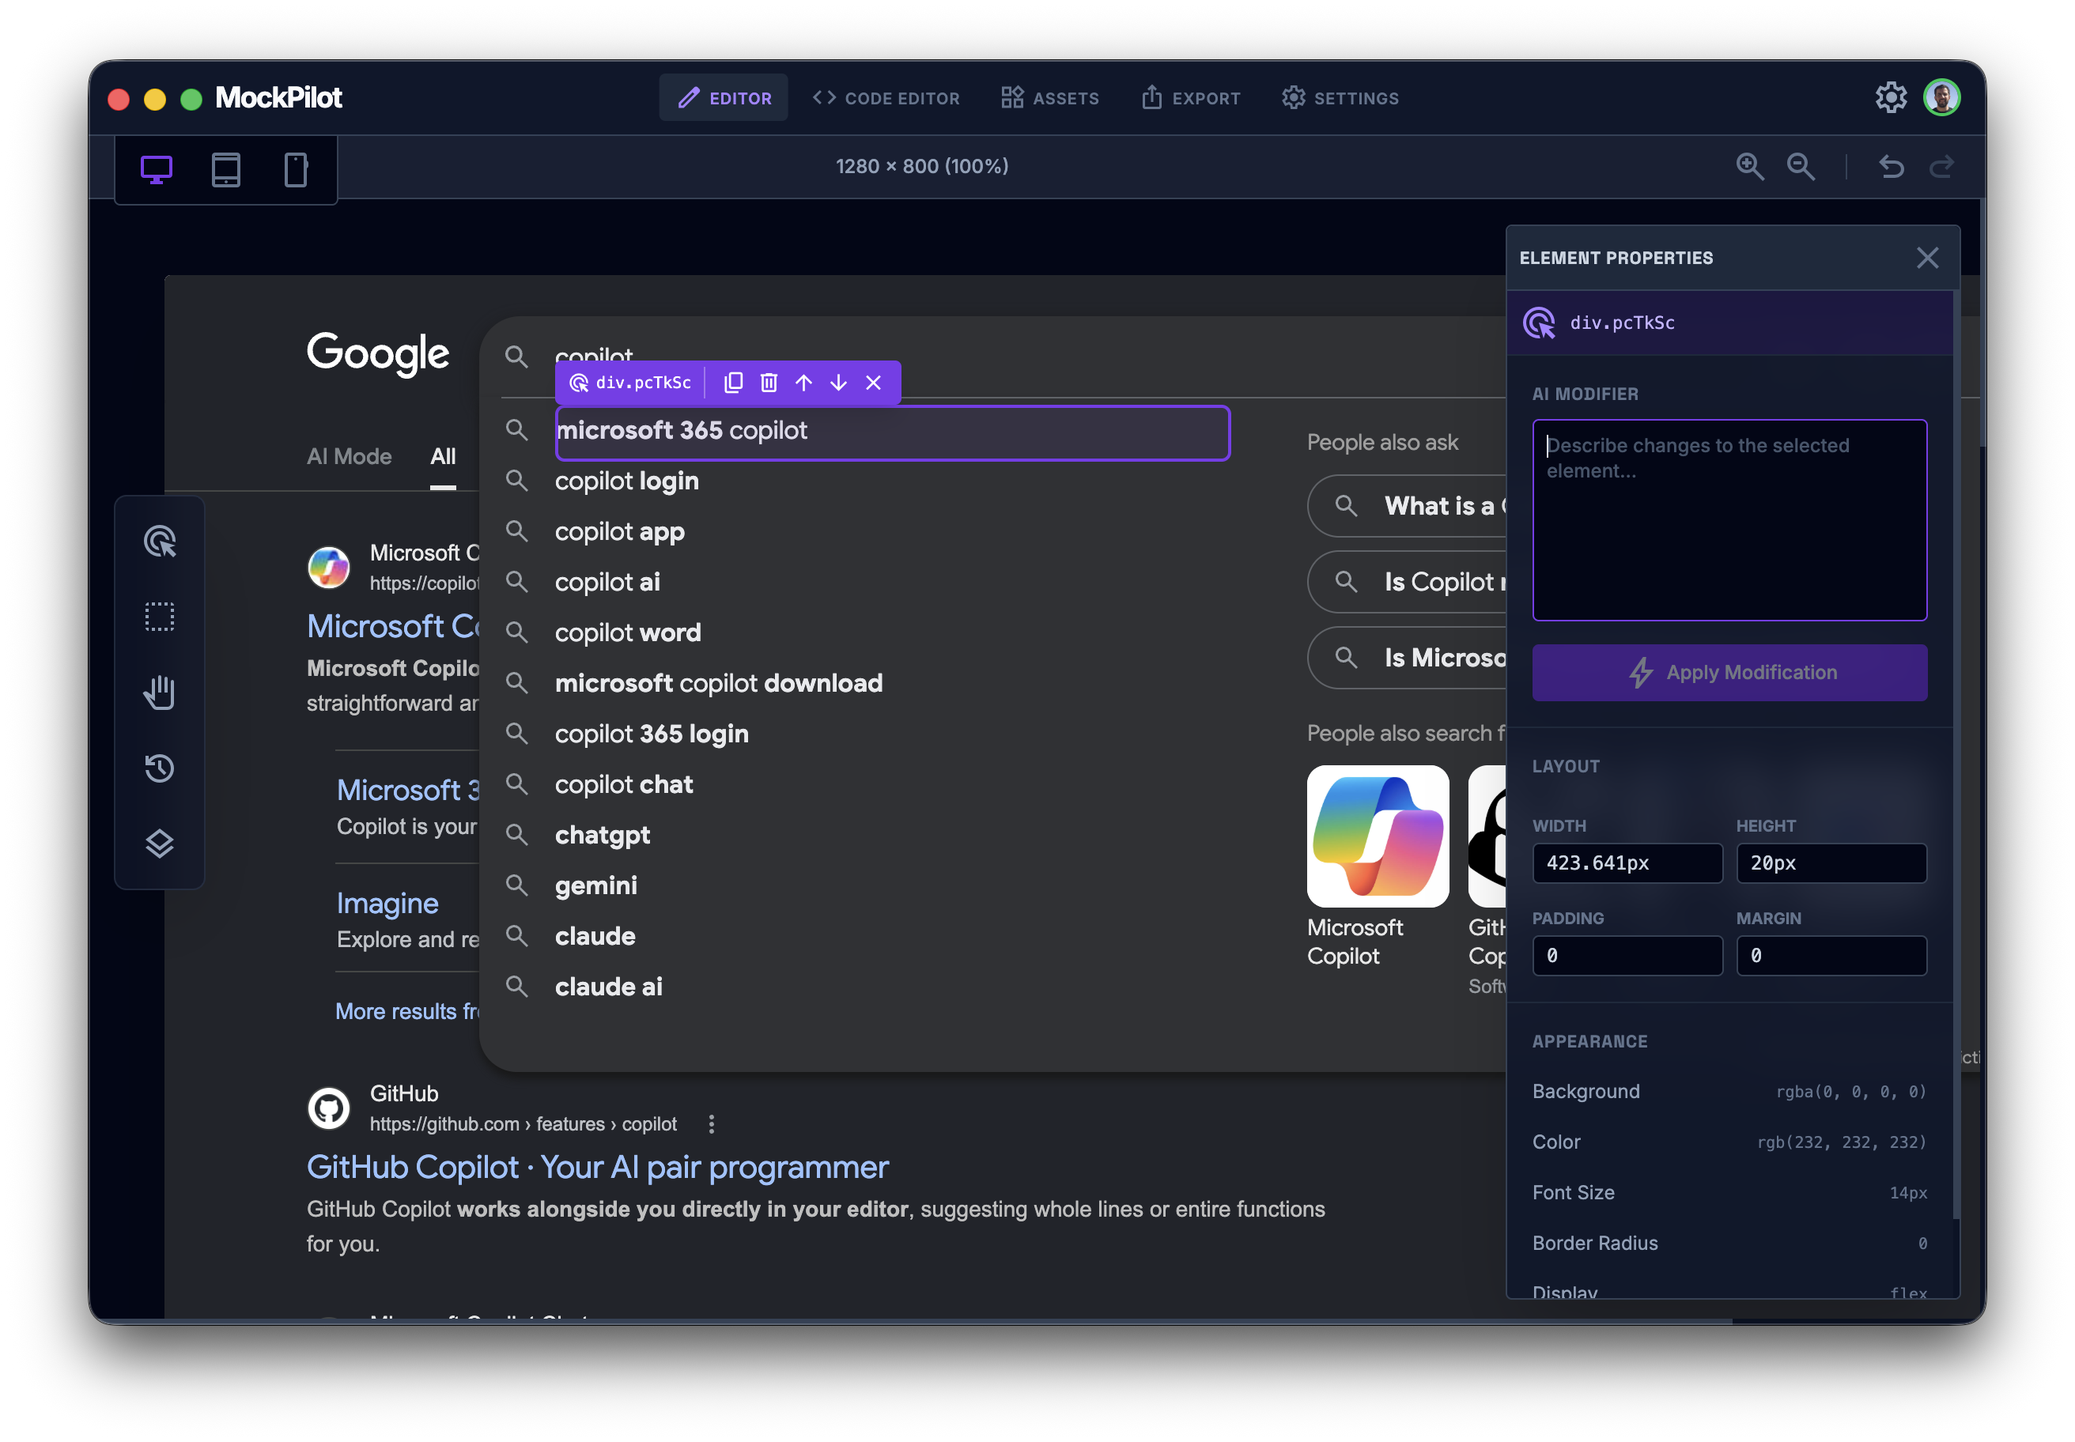
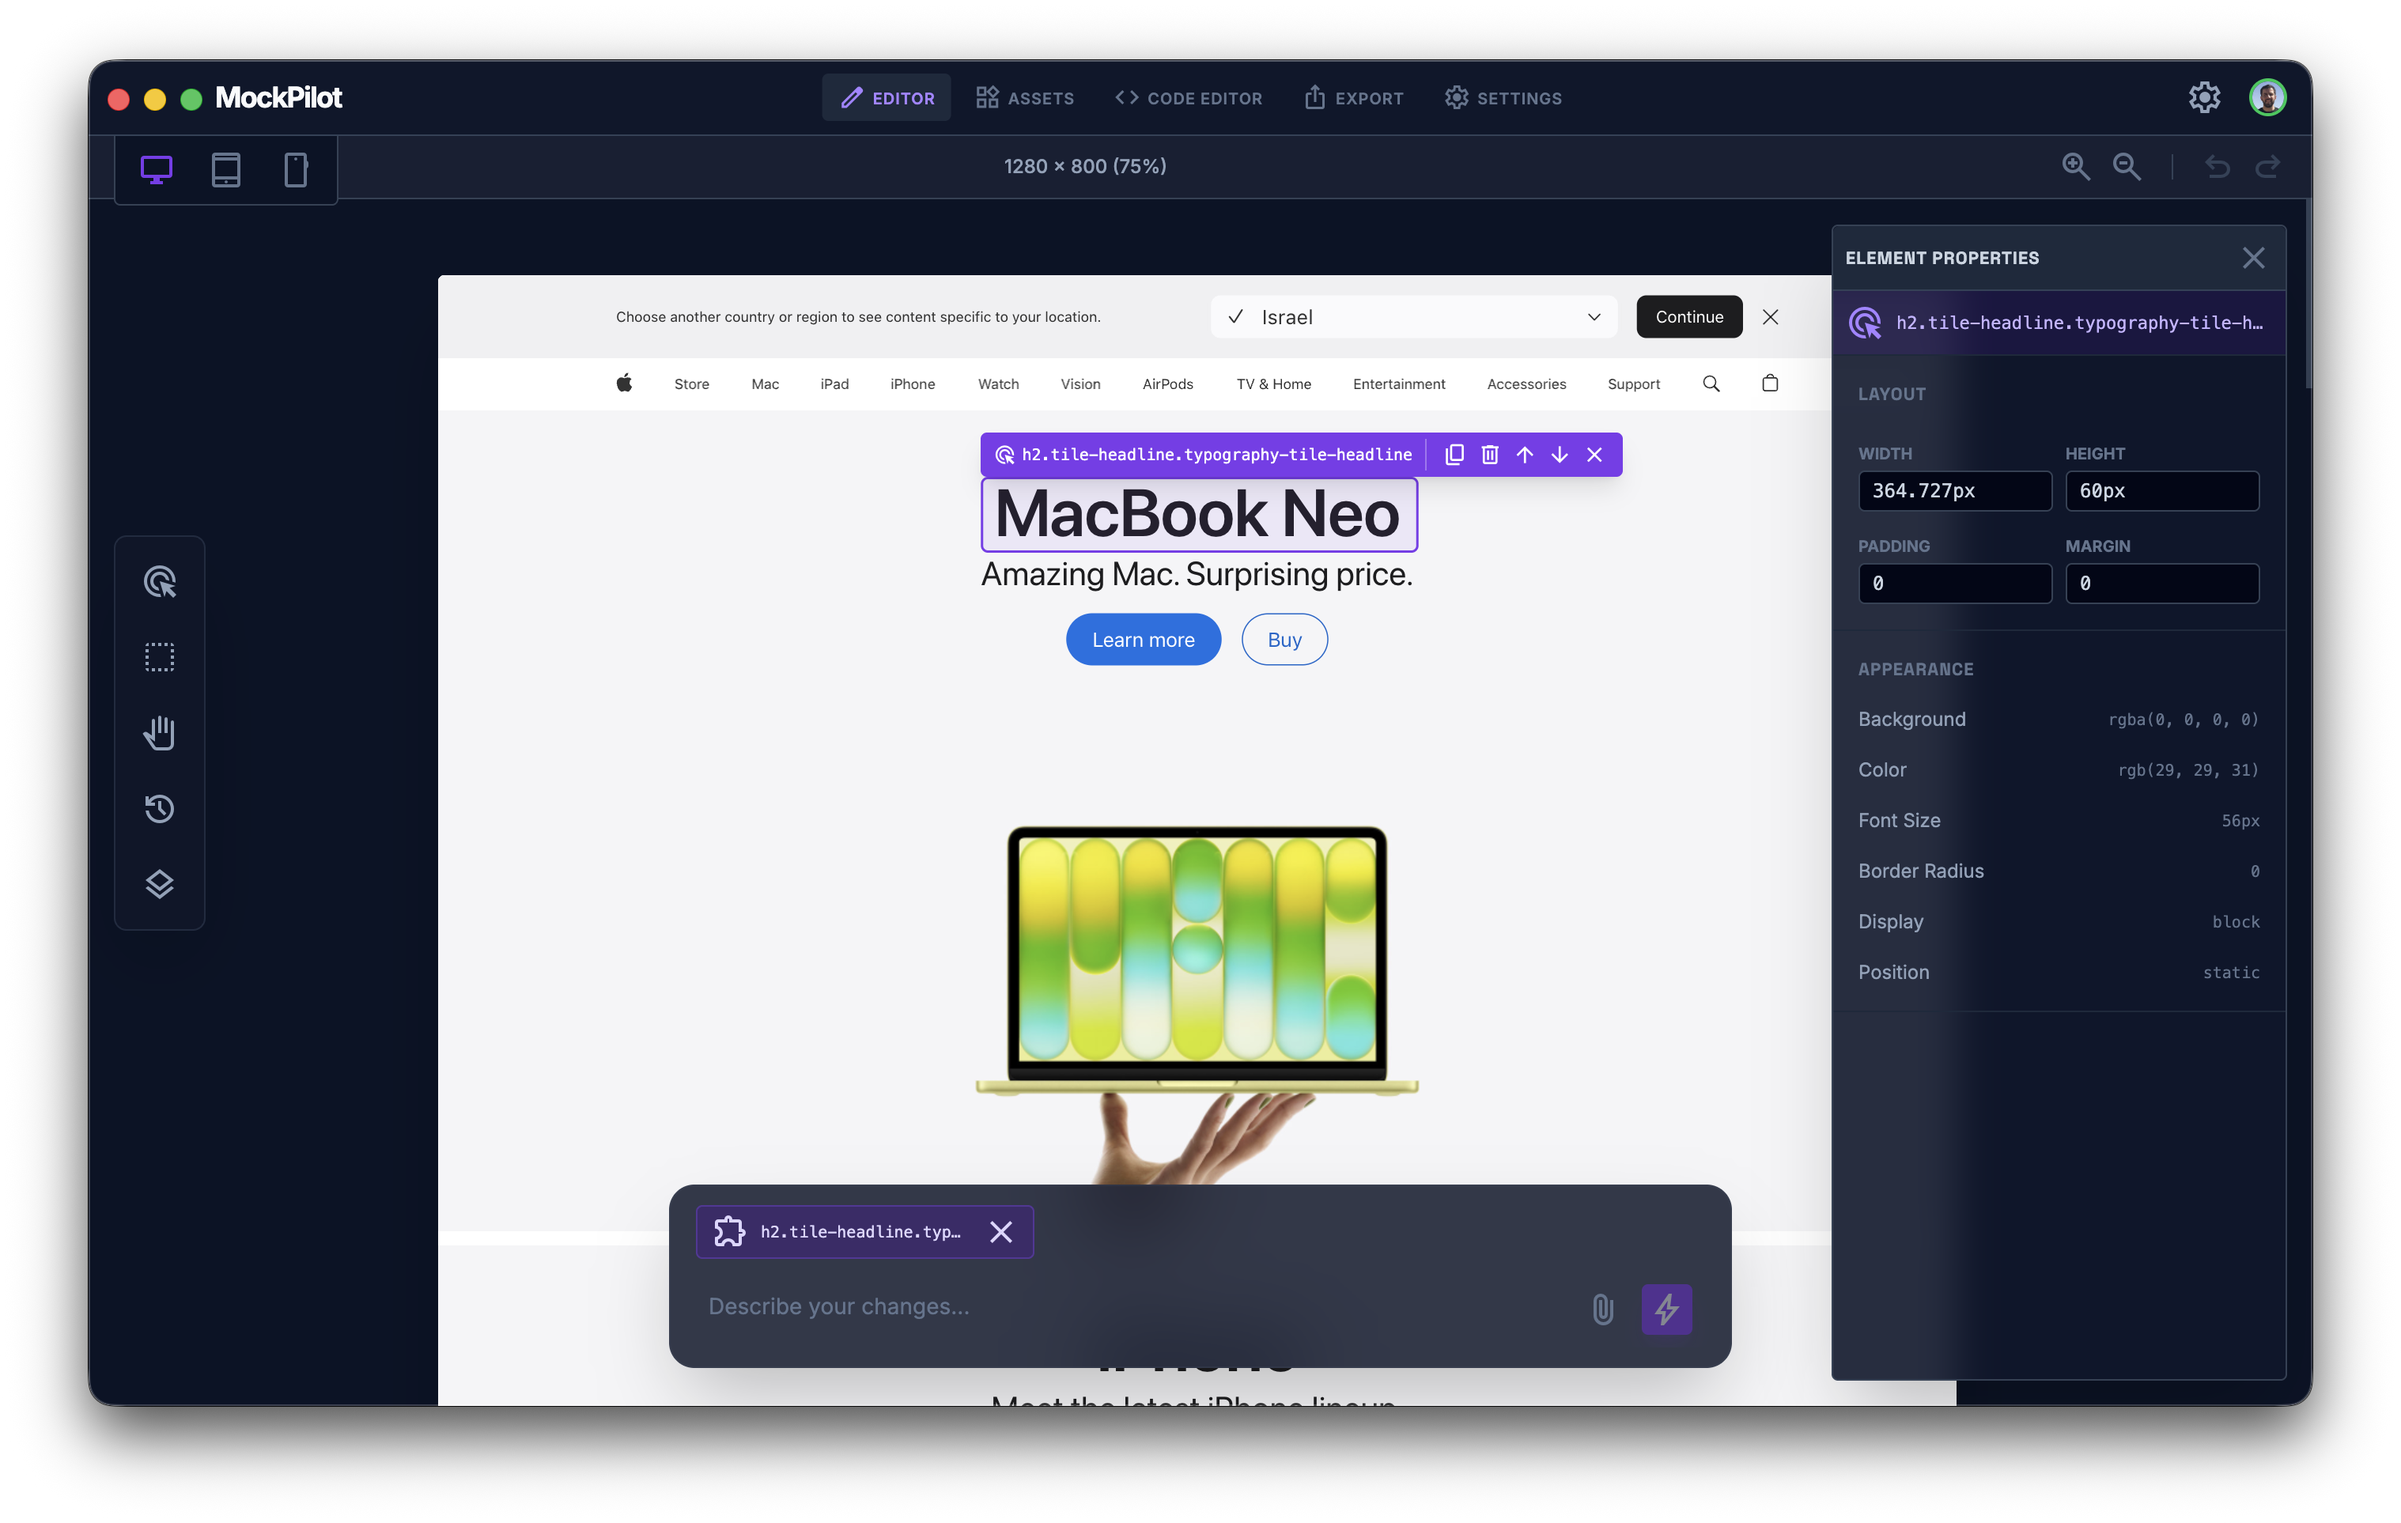
Fix missing images in <picture> elements and update screenshot
Remove <source> siblings from <picture> elements after capturing the
<img> to a data URI. Previously, source elements with relative URLs
were left untouched and took priority over the captured image, causing
broken references in the rendered mock.

diff --git a/src/main/capture/website-utils.ts b/src/main/capture/website-utils.ts
@@ -1,6 +1,6 @@
 import type { Page } from "puppeteer";
 
-export const inlineCaptureScript = String.raw`(async ()=>{const blobToDataUri=(blob)=>new Promise((resolve)=>{const reader=new FileReader();reader.onloadend=()=>resolve(reader.result);reader.readAsDataURL(blob);});const fetchAsDataUri=async(resourceUrl)=>{const response=await fetch(resourceUrl);if(!response.ok)return null;return blobToDataUri(await response.blob());};const inlineCssUrls=async(cssText,baseUrl,regex,includeFormat)=>{let updatedCss=cssText;for(const match of cssText.matchAll(regex)){if(match[1].startsWith("data:"))continue;try{const dataUri=await fetchAsDataUri(new URL(match[1],baseUrl).href);if(!dataUri)continue;const replacement=includeFormat?'url("'+dataUri+'") format("'+match[2]+'")':'url("'+dataUri+'")';updatedCss=updatedCss.replace(match[0],replacement);}catch{}}return updatedCss;};const inlineFontUrls=async(cssText,baseUrl)=>{let updatedCss=cssText;for(const faceMatch of cssText.matchAll(/@font-face\s*\{[^}]*\}/gi)){let faceBlock=faceMatch[0];faceBlock=await inlineCssUrls(faceBlock,baseUrl,/url\(["']?([^"')]+?)["']?\)\s*format\(["']?(woff2?|truetype|opentype|embedded-opentype)["']?\)/gi,true);faceBlock=await inlineCssUrls(faceBlock,baseUrl,/url\(["']?([^"')]+\.(?:woff2?|ttf|otf|eot)[^"')]*?)["']?\)/gi,false);updatedCss=updatedCss.replace(faceMatch[0],faceBlock);}return updatedCss;};const cssomSnapshot=[];for(let si=0;si<document.styleSheets.length;si++){try{const sheet=document.styleSheets[si];if(sheet.cssRules&&sheet.cssRules.length>0){const rules=[];for(let i=0;i<sheet.cssRules.length;i++)rules.push(sheet.cssRules[i].cssText);cssomSnapshot.push({href:sheet.href||null,rules});}}catch{}}if(document.adoptedStyleSheets){for(const adopted of document.adoptedStyleSheets){try{if(adopted.cssRules&&adopted.cssRules.length>0){const rules=[];for(let i=0;i<adopted.cssRules.length;i++)rules.push(adopted.cssRules[i].cssText);cssomSnapshot.push({href:null,rules,adopted:true});}}catch{}}}document.querySelectorAll("script").forEach((script)=>script.remove());document.querySelectorAll('link[rel="stylesheet"]').forEach((l)=>l.remove());document.querySelectorAll("style").forEach((s)=>s.remove());for(const snap of cssomSnapshot){if(snap.rules.length===0)continue;const style=document.createElement("style");if(snap.adopted)style.setAttribute("data-adopted-stylesheet","true");if(snap.href)style.setAttribute("data-original-href",snap.href);style.textContent=snap.rules.join("\n");document.head.appendChild(style);}for(const style of document.querySelectorAll("style")){const baseUrl=style.getAttribute("data-original-href")||document.baseURI;style.textContent=await inlineFontUrls(style.textContent||"",baseUrl);}for(const img of document.querySelectorAll("img")){try{const canvas=document.createElement("canvas");canvas.width=img.naturalWidth||img.width||300;canvas.height=img.naturalHeight||img.height||200;const context=canvas.getContext("2d");if(context&&img.complete&&img.naturalWidth>0){context.drawImage(img,0,0);img.src=canvas.toDataURL("image/png");}}catch{}}document.querySelectorAll('[style*="display: none"], [style*="display:none"]').forEach((element)=>element.remove());const commentWalker=document.createTreeWalker(document,NodeFilter.SHOW_COMMENT);const comments=[];while(commentWalker.nextNode())comments.push(commentWalker.currentNode);comments.forEach((comment)=>comment.remove());const textWalker=document.createTreeWalker(document,NodeFilter.SHOW_TEXT);const textNodes=[];while(textWalker.nextNode())textNodes.push(textWalker.currentNode);textNodes.forEach((textNode)=>{if(!textNode.textContent||!/^\s+$/.test(textNode.textContent))return;let ancestor=textNode.parentElement;while(ancestor){if(ancestor.tagName==="PRE")return;ancestor=ancestor.parentElement;}textNode.textContent="\n";});return document.documentElement.outerHTML;})()`;
+export const inlineCaptureScript = String.raw`(async ()=>{const blobToDataUri=(blob)=>new Promise((resolve)=>{const reader=new FileReader();reader.onloadend=()=>resolve(reader.result);reader.readAsDataURL(blob);});const fetchAsDataUri=async(resourceUrl)=>{const response=await fetch(resourceUrl);if(!response.ok)return null;return blobToDataUri(await response.blob());};const inlineCssUrls=async(cssText,baseUrl,regex,includeFormat)=>{let updatedCss=cssText;for(const match of cssText.matchAll(regex)){if(match[1].startsWith("data:"))continue;try{const dataUri=await fetchAsDataUri(new URL(match[1],baseUrl).href);if(!dataUri)continue;const replacement=includeFormat?'url("'+dataUri+'") format("'+match[2]+'")':'url("'+dataUri+'")';updatedCss=updatedCss.replace(match[0],replacement);}catch{}}return updatedCss;};const inlineFontUrls=async(cssText,baseUrl)=>{let updatedCss=cssText;for(const faceMatch of cssText.matchAll(/@font-face\s*\{[^}]*\}/gi)){let faceBlock=faceMatch[0];faceBlock=await inlineCssUrls(faceBlock,baseUrl,/url\(["']?([^"')]+?)["']?\)\s*format\(["']?(woff2?|truetype|opentype|embedded-opentype)["']?\)/gi,true);faceBlock=await inlineCssUrls(faceBlock,baseUrl,/url\(["']?([^"')]+\.(?:woff2?|ttf|otf|eot)[^"')]*?)["']?\)/gi,false);updatedCss=updatedCss.replace(faceMatch[0],faceBlock);}return updatedCss;};const cssomSnapshot=[];for(let si=0;si<document.styleSheets.length;si++){try{const sheet=document.styleSheets[si];if(sheet.cssRules&&sheet.cssRules.length>0){const rules=[];for(let i=0;i<sheet.cssRules.length;i++)rules.push(sheet.cssRules[i].cssText);cssomSnapshot.push({href:sheet.href||null,rules});}}catch{}}if(document.adoptedStyleSheets){for(const adopted of document.adoptedStyleSheets){try{if(adopted.cssRules&&adopted.cssRules.length>0){const rules=[];for(let i=0;i<adopted.cssRules.length;i++)rules.push(adopted.cssRules[i].cssText);cssomSnapshot.push({href:null,rules,adopted:true});}}catch{}}}document.querySelectorAll("script").forEach((script)=>script.remove());document.querySelectorAll('link[rel="stylesheet"]').forEach((l)=>l.remove());document.querySelectorAll("style").forEach((s)=>s.remove());for(const snap of cssomSnapshot){if(snap.rules.length===0)continue;const style=document.createElement("style");if(snap.adopted)style.setAttribute("data-adopted-stylesheet","true");if(snap.href)style.setAttribute("data-original-href",snap.href);style.textContent=snap.rules.join("\n");document.head.appendChild(style);}for(const style of document.querySelectorAll("style")){const baseUrl=style.getAttribute("data-original-href")||document.baseURI;style.textContent=await inlineFontUrls(style.textContent||"",baseUrl);}for(const img of document.querySelectorAll("img")){try{const canvas=document.createElement("canvas");canvas.width=img.naturalWidth||img.width||300;canvas.height=img.naturalHeight||img.height||200;const context=canvas.getContext("2d");if(context&&img.complete&&img.naturalWidth>0){context.drawImage(img,0,0);img.src=canvas.toDataURL("image/png");img.removeAttribute("srcset");if(img.parentElement&&img.parentElement.tagName==="PICTURE"){img.parentElement.querySelectorAll("source").forEach(function(s){s.remove()});}}}catch{}}document.querySelectorAll('[style*="display: none"], [style*="display:none"]').forEach((element)=>element.remove());const commentWalker=document.createTreeWalker(document,NodeFilter.SHOW_COMMENT);const comments=[];while(commentWalker.nextNode())comments.push(commentWalker.currentNode);comments.forEach((comment)=>comment.remove());const textWalker=document.createTreeWalker(document,NodeFilter.SHOW_TEXT);const textNodes=[];while(textWalker.nextNode())textNodes.push(textWalker.currentNode);textNodes.forEach((textNode)=>{if(!textNode.textContent||!/^\s+$/.test(textNode.textContent))return;let ancestor=textNode.parentElement;while(ancestor){if(ancestor.tagName==="PRE")return;ancestor=ancestor.parentElement;}textNode.textContent="\n";});return document.documentElement.outerHTML;})()`;
 
 const replaceCapturedIframeHelperSource = String.raw`const iframes=document.querySelectorAll("iframe");const iframe=iframes[params.iframeIndex];if(!iframe)return;const parser=new DOMParser();const doc=parser.parseFromString(params.capturedHtml,"text/html");const container=document.createElement("div");container.setAttribute("data-iframe-inline",params.scopeId);container.setAttribute("data-iframe-src",iframe.getAttribute("src")||"");const width=iframe.getAttribute("width")||iframe.style.width||"100%";const height=iframe.getAttribute("height")||iframe.style.height||"auto";container.style.width=typeof width==="string"&&width.includes("%")?width:width+"px";container.style.height=height==="auto"||(typeof height==="string"&&height.includes("%"))?height:height+"px";container.style.overflow="hidden";container.style.position="relative";const scopeSelector='[data-iframe-inline="'+params.scopeId+'"]';for(const style of doc.querySelectorAll("style")){let css=style.textContent||"";css=css.replace(/([^{}]+)\{/g,(match,selectors)=>{if(selectors.trim().startsWith("@"))return match;const scopedSelectors=selectors.split(",").map((selector)=>{const trimmed=selector.trim();if(!trimmed)return selector;if(trimmed==="html"||trimmed==="body"||trimmed===":root")return scopeSelector;return scopeSelector+" "+trimmed;}).join(",");return scopedSelectors+"{";});const scopedStyle=document.createElement("style");scopedStyle.textContent=css;container.appendChild(scopedStyle);}const contentWrapper=document.createElement("div");contentWrapper.innerHTML=doc.body?doc.body.innerHTML:doc.documentElement.innerHTML;container.appendChild(contentWrapper);iframe.replaceWith(container);`;
 

diff --git a/src/renderer/pages/CaptureBrowser/scripts/captureHtmlScriptMedia.ts b/src/renderer/pages/CaptureBrowser/scripts/captureHtmlScriptMedia.ts
@@ -29,6 +29,11 @@ export const CAPTURE_HTML_SCRIPT_MEDIA = `
           ctx.drawImage(img, 0, 0);
           img.src = canvas.toDataURL("image/png");
           img.removeAttribute("srcset");
+          // Remove <source> siblings inside <picture> so the browser uses
+          // the captured data URI on the <img> instead of stale source URLs
+          if (img.parentElement && img.parentElement.tagName === "PICTURE") {
+            img.parentElement.querySelectorAll("source").forEach(function(s) { s.remove(); });
+          }
         }
       } catch {}
     }
